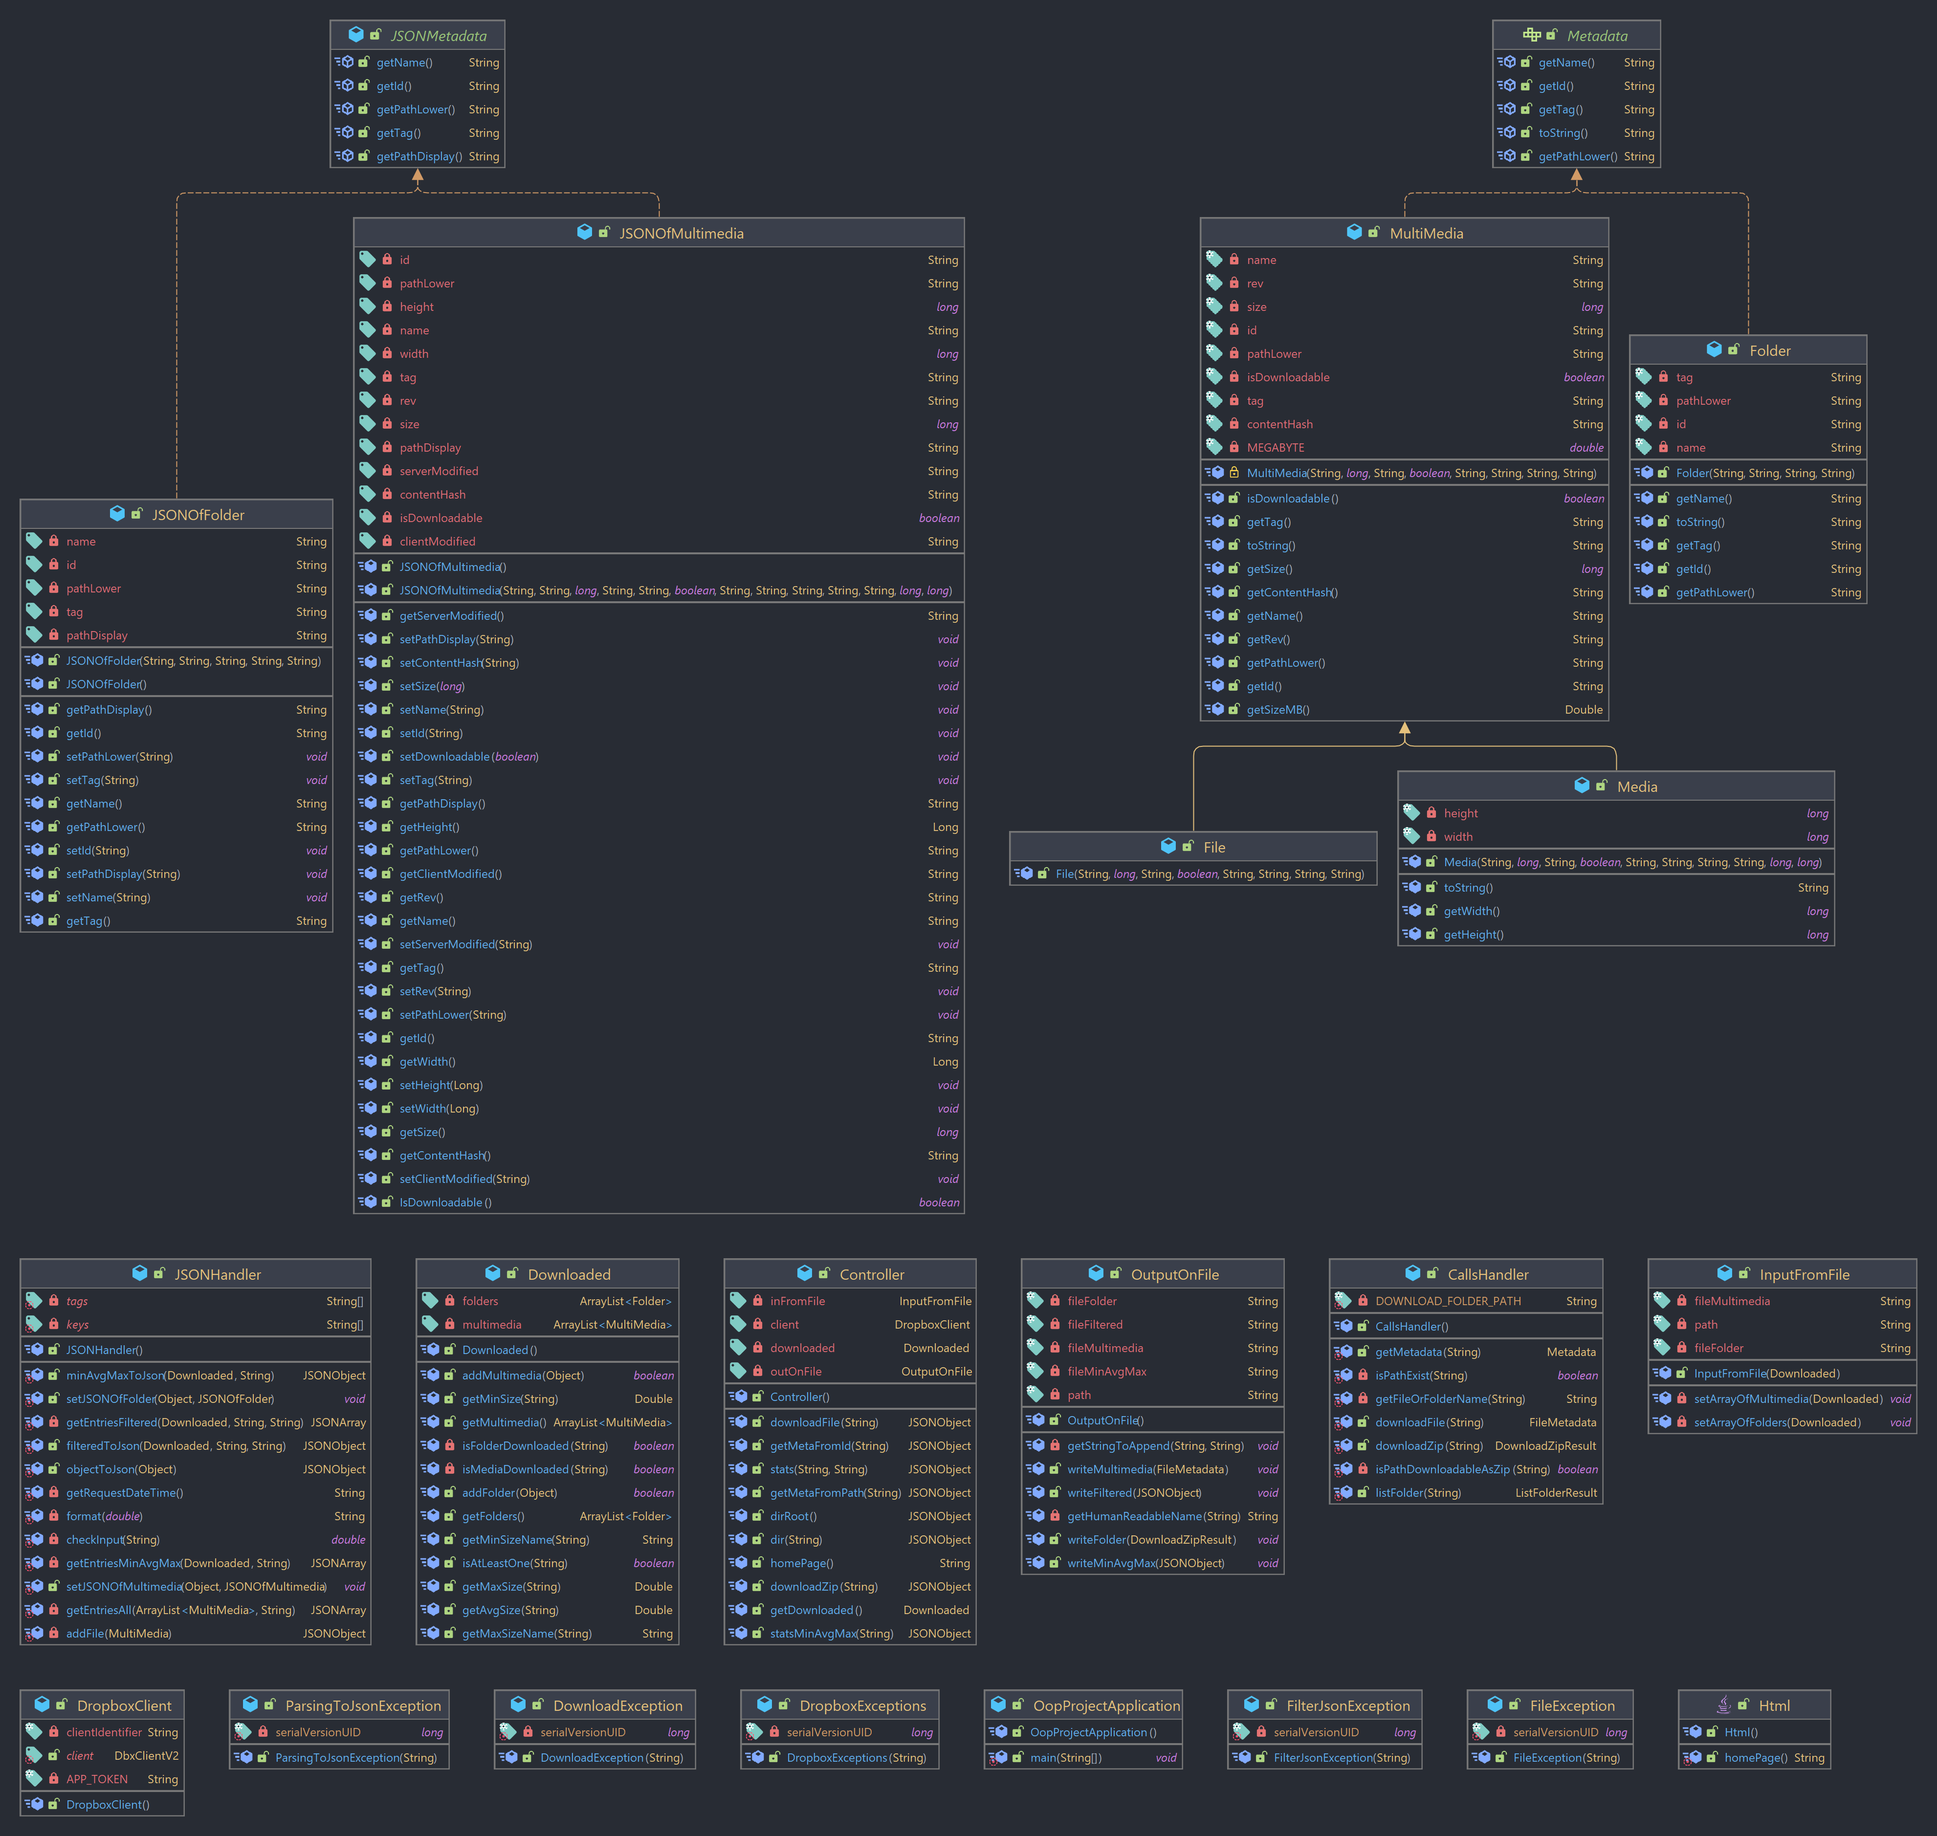
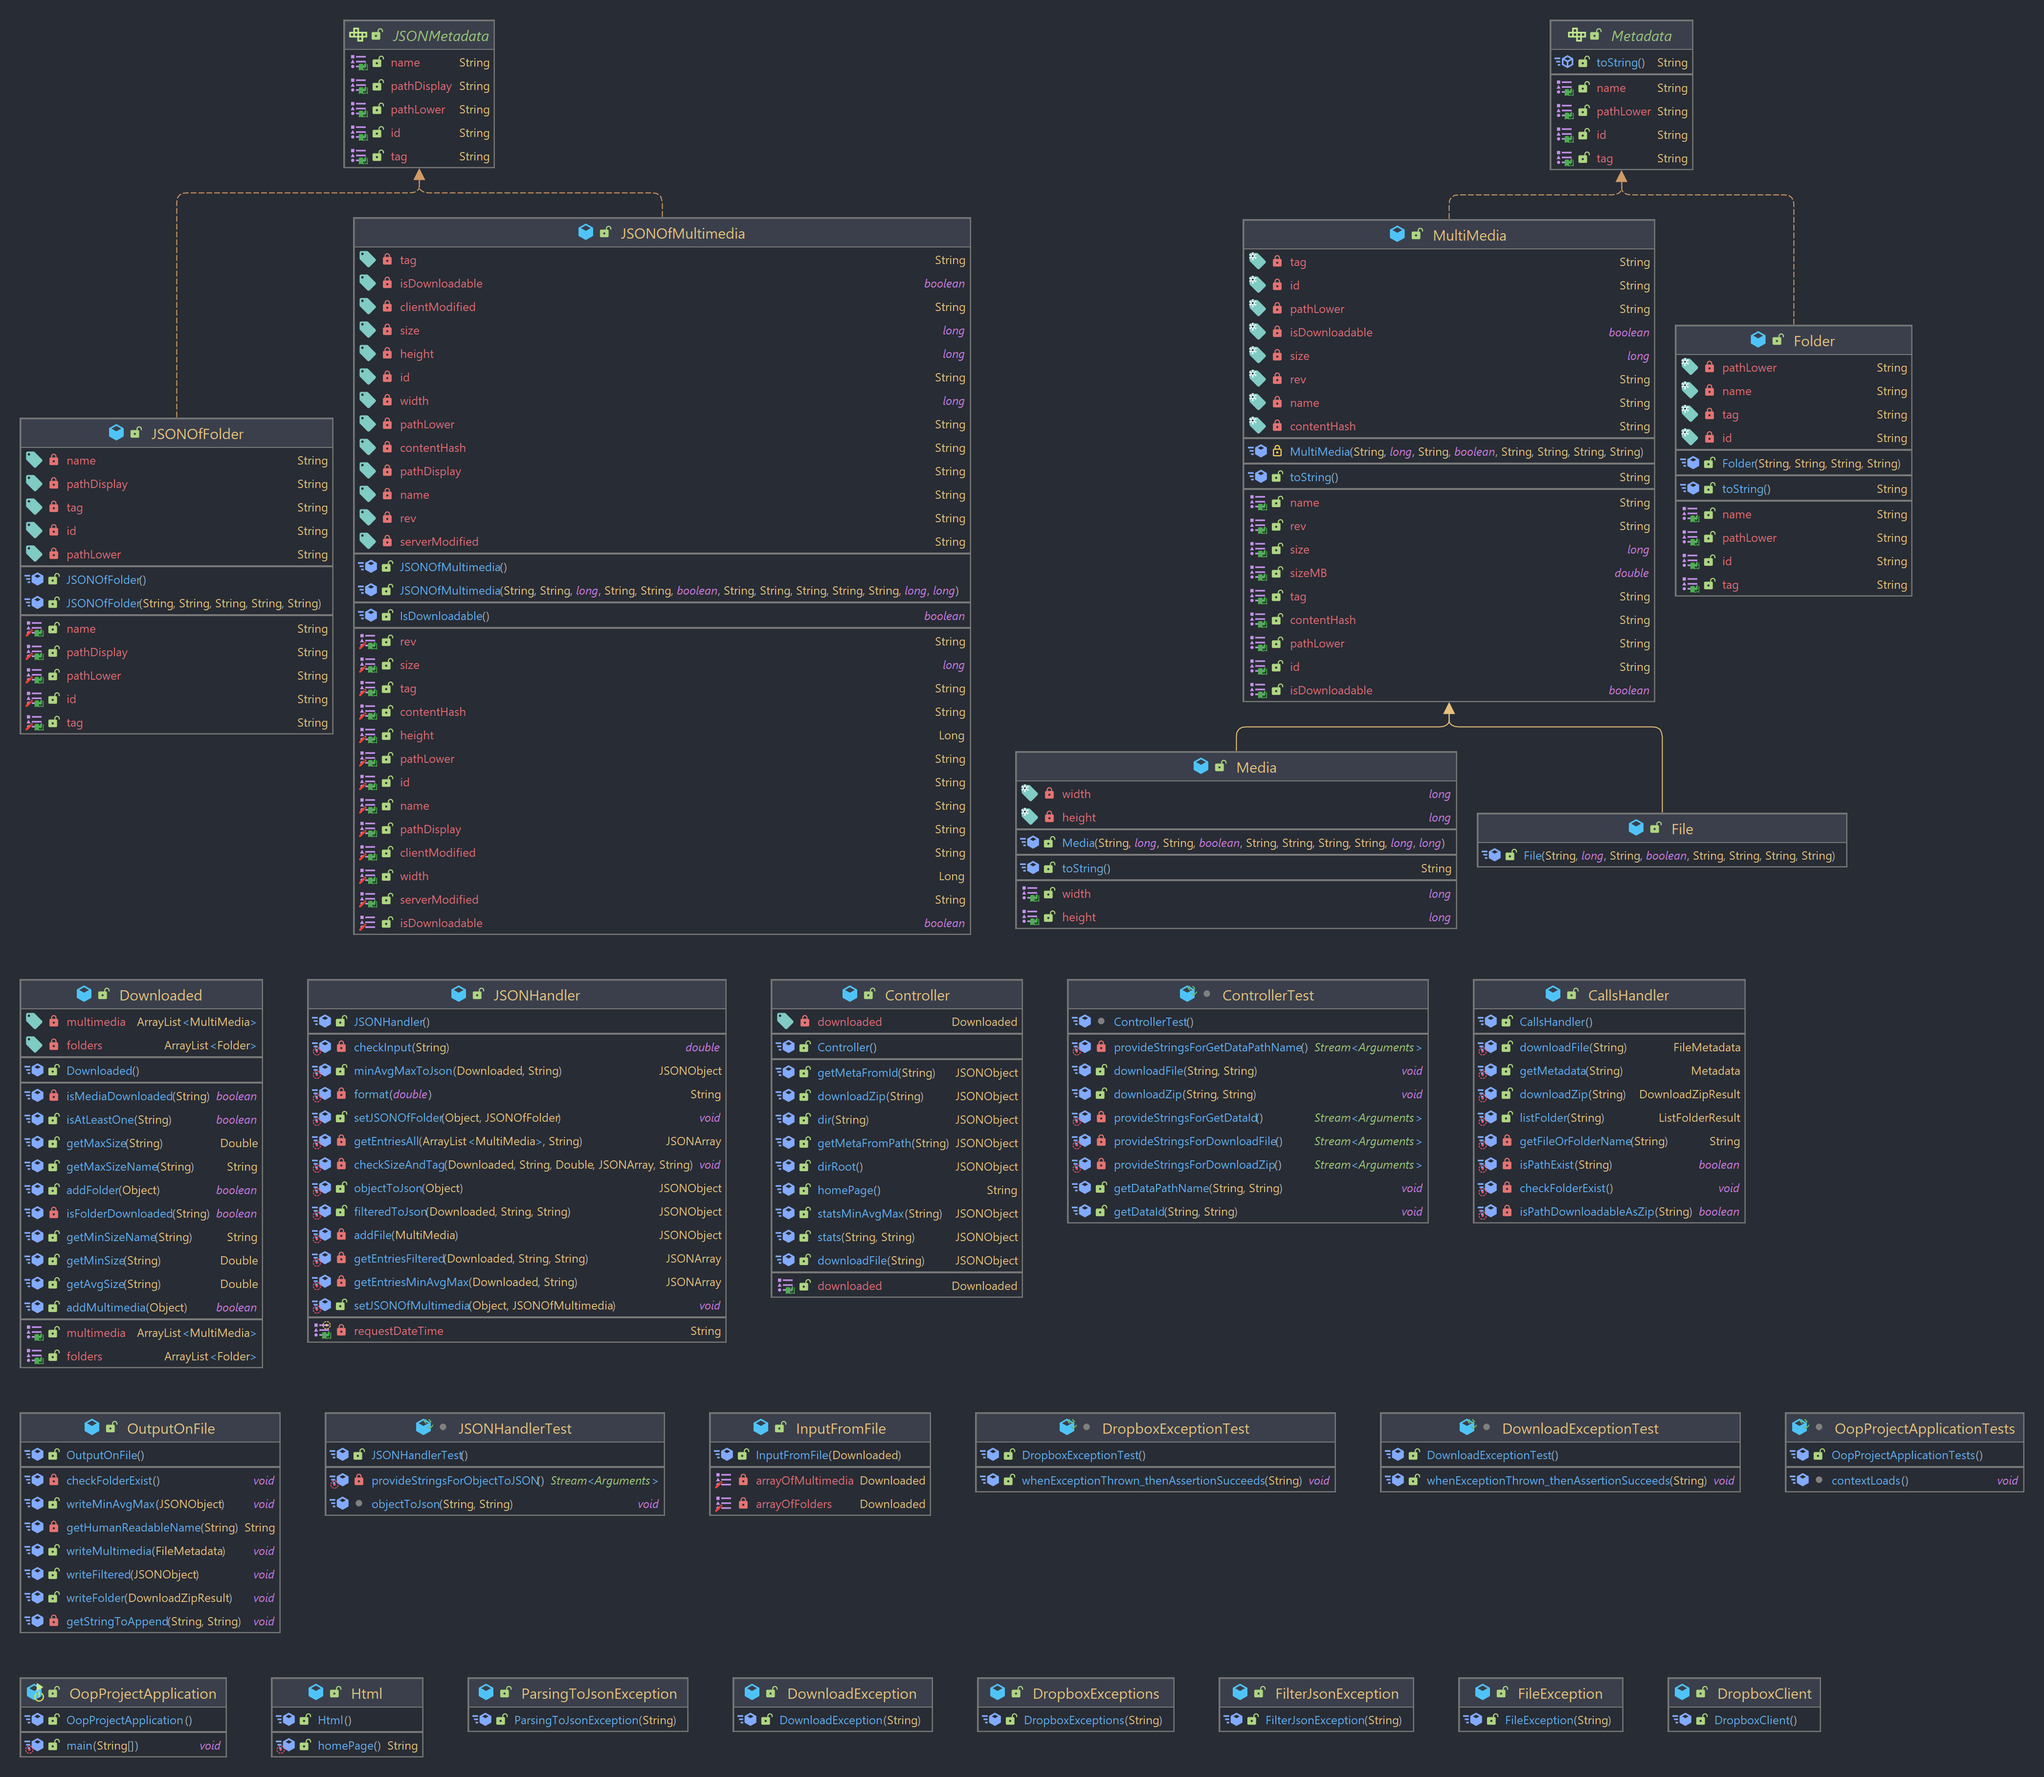
Correzione errori documentazione
-Aggiornato readme, spero alla versione finale
-Correzione mancato upload della javadoc di InputFromFile
-Aggiornata immagine diagramma

Changed region(s): [[0.0, 0.0, 0.9934, 0.995], [0.6519, 0.6219, 0.683, 0.653]]

diff --git a/src/main/java/it/giuugcola/oop/stream/InputFromFile.java b/src/main/java/it/giuugcola/oop/stream/InputFromFile.java
@@ -9,6 +9,12 @@ import org.json.simple.parser.ParseException;
 
 import java.io.*;
 
+/**
+ * Classe per la lettura su file.
+ *
+ * @author Davide Colabella
+ * @author Matteo Giuliani
+ */
 public class InputFromFile {
 
     /**
@@ -26,7 +32,13 @@ public class InputFromFile {
      */
     private static final String FILE_FOLDER = "folder.txt";
 
-
+    /**
+     * Metodo per leggere dai file txt tutti i file e le cartelle scaricate.
+     *
+     * @param downloaded Oggetto {@link Downloaded} che conterrà tutti i file scaricati
+     * @throws FileException          Se la lettura su file genera errori
+     * @throws ParsingToJsonException Se la creazione del JSON genera errori
+     */
     public InputFromFile(Downloaded downloaded) throws FileException, ParsingToJsonException, DownloadException {
         if (new File(PATH + FILE_MULTIMEDIA).exists())
             setArrayOfMultimedia(downloaded);
@@ -34,6 +46,11 @@ public class InputFromFile {
             setArrayOfFolders(downloaded);
     }
 
+    /**
+     * Metodo ausiliario di {@link #InputFromFile(Downloaded)}, che legge i file multimediali scaricati.
+     *
+     * @param downloaded Oggetto {@link Downloaded} che conterrà tutti i file scaricati
+     */
     private void setArrayOfMultimedia(Downloaded downloaded) throws FileException, ParsingToJsonException, DownloadException {
         JSONParser jParser = new JSONParser();
         StringBuilder content = new StringBuilder();
@@ -57,6 +74,11 @@ public class InputFromFile {
         }
     }
 
+    /**
+     * Metodo ausiliario di {@link #InputFromFile(Downloaded)}, che legge le cartelle scaricate.
+     *
+     * @param downloaded Oggetto {@link Downloaded} che conterrà tutti i file scaricati
+     */
     private void setArrayOfFolders(Downloaded downloaded) throws FileException, ParsingToJsonException, DownloadException {
         JSONParser jParser = new JSONParser();
         StringBuilder content = new StringBuilder();

diff --git a/README.md b/README.md
@@ -19,8 +19,14 @@
 
 <img align="right" src="img/dB/MiniLogoBlu.png" alt="Icona Dropbox" width="88" height="88" >
 
-L'applicazione SpringBoot qui pubblicata ha come scopo principale quello di scaricare file dal proprio account Dropbox,
-mediante l'utilizzo della [Dropbox Api V2](https://www.dropbox.com/developers/documentation/http/overview).
+L'applicazione SpringBoot qui pubblicata permette di scaricare file dal proprio account Dropbox ed effettuare,
+statistiche su di essi, mediante l'utilizzo della [Dropbox Api V2](https://www.dropbox.com/developers/documentation/http/overview).
+
+L'obiettivo principale è quello di scaricare una cartella o un file dal proprio Dropbox ed effettuare
+statistiche in locale sui file scaricati in base alla dimensione e al tipo, con l'implementazione di
+filtri che permettano di visualizzare solo ciò di cui  
+si ha bisogno, specificando dimensione minima o
+massima e tipo di file.
 
 **Funzioni dell'applicazione**:
 
@@ -43,7 +49,7 @@ mediante l'utilizzo della [Dropbox Api V2](https://www.dropbox.com/developers/do
 | ` post ` | [`/getMetaFromPath`](#/getMetaFromPath)       | Restituisce informazioni sul file o la cartella con il loro percorso.             | `path`          |
 | ` post ` | [`/downloadFile`](#/downloadFile)             | Effettua il download di un file.                                                  | `path`          |
 | ` post ` | [`/downloadZip`](#/downloadZip)               | Effettua il download di una cartella.                                             | `path`          |
-| ` post ` | [`/stats`](#/stats)                           | Restituisce la lista dei file scaricati.                                          | `filter`, `tag` |
+| ` get `  | [`/stats`](#/stats)                           | Restituisce la lista dei file scaricati.                                          | `filter`, `tag` |
 | ` get `  | [`/stats/getMinAvgMax`](#/stats/getMinAvgMax) | Calcola dimensione minima, media e massima per tipo di file scaricato.            | `tag`           |
 
 <a name="rotte-post"></a>
@@ -341,8 +347,8 @@ I parametri sono `filter` e `tag`e possono essere usati assieme o singolarmente.
 | `file`  | File (tutti eccetto foto e video) |
 | `photo` | Foto                              |
 | `video` | Video                             |  
-  
-Nella formulazione del parametro `filter` bisogna seguire delle regole: 
+
+Nella formulazione del parametro `filter` bisogna seguire delle regole:
 * Per tutti i filter eccetto `bt` va specificato un solo valore di comparazione.
 * Il valore deve essere raccolto nelle parentesi tonde, ESEMPIO: `(3.9)`.
 * Il valore nelle parentesi va posto dopo il filter, ESEMPIO: `gt(2.4)`.
@@ -353,21 +359,21 @@ Utilizzando entrambi i parametri la chiamata sarà di questo tipo:
 
 ![Rotta statsFilter](img/get/statsFil.png)
 
-Dove otterremo la lista dei file che soddisfano i parametri specificati.  
+In questo modo otterremo la lista dei file che soddisfano i parametri specificati.
 
-JSON con parametri `filter=gt(1.2)` e `tag=file`:  
+JSON con parametri `filter=gt(1.2)` e `tag=file`:
 
 ```json
 {
-    "request_time": "16/12/2021 22:55:44",
-    "file_tag": {
-        "file": [
-            {
-                "size": "2,07MB",
-                "name": "sample_of_text.txt"
-            }
-        ]
-    }
+  "request_time": "16/12/2021 22:55:44",
+  "file_tag": {
+    "file": [
+      {
+        "size": "2,07MB",
+        "name": "sample_of_text.txt"
+      }
+    ]
+  }
 }
 ```
 
@@ -379,65 +385,66 @@ JSON con parametri `filter=gt(1.2)` e `tag=file`:
 
 ![Rotta minAvgMax](img/get/minAvgMax.png)
 
-La chiamata `/stats/getMinAvgMax` restituisce una lista suddivisa per tipo di file, del file più 
-piccolo, della dimensione media del tipo e del file più grande.  
+La chiamata `/stats/getMinAvgMax` effettua statistiche sulle dimensioni minima, 
+media e massima dei file scaricati per tipo di file; restituendo una lista suddivisa per tipo di file, 
+contenente il più piccolo, il più grande e la dimensione media. 
 
-In risposta otteniamo un JSON di questo tipo:  
+In risposta otteniamo un JSON di questo tipo:
 
 ```json
 {
-    "request_time": "16/12/2021 22:59:36",
-    "file_tag": {
-        "file": [
-            {
-                "min": {
-                    "size": "2,07MB",
-                    "name": "sample_of_text.txt"
-                },
-                "avg": {
-                    "size": "2,07MB"
-                },
-                "max": {
-                    "size": "2,07MB",
-                    "name": "sample_of_text.txt"
-                }
-            }
-        ],
-        "photo": [
-            {
-                "min": {
-                    "size": "0,03MB",
-                    "name": "Parrots.jpg"
-                },
-                "avg": {
-                    "size": "0,03MB"
-                },
-                "max": {
-                    "size": "0,03MB",
-                    "name": "Parrots.jpg"
-                }
-            }
-        ],
-        "video": [
-            {
-                "min": {
-                    "size": "1,01MB",
-                    "name": "SampleVideo_1280x720_1mb.mp4"
-                },
-                "avg": {
-                    "size": "1,01MB"
-                },
-                "max": {
-                    "size": "1,01MB",
-                    "name": "SampleVideo_1280x720_1mb.mp4"
-                }
-            }
-        ]
-    }
+  "request_time": "16/12/2021 22:59:36",
+  "file_tag": {
+    "file": [
+      {
+        "min": {
+          "size": "2,07MB",
+          "name": "sample_of_text.txt"
+        },
+        "avg": {
+          "size": "2,07MB"
+        },
+        "max": {
+          "size": "2,07MB",
+          "name": "sample_of_text.txt"
+        }
+      }
+    ],
+    "photo": [
+      {
+        "min": {
+          "size": "0,03MB",
+          "name": "Parrots.jpg"
+        },
+        "avg": {
+          "size": "0,03MB"
+        },
+        "max": {
+          "size": "0,03MB",
+          "name": "Parrots.jpg"
+        }
+      }
+    ],
+    "video": [
+      {
+        "min": {
+          "size": "1,01MB",
+          "name": "SampleVideo_1280x720_1mb.mp4"
+        },
+        "avg": {
+          "size": "1,01MB"
+        },
+        "max": {
+          "size": "1,01MB",
+          "name": "SampleVideo_1280x720_1mb.mp4"
+        }
+      }
+    ]
+  }
 }
 ```  
-  
-Nella chiamata possiamo anche specificare il parametro `tag`:  
+
+Nella chiamata possiamo anche specificare il parametro `tag`:
 
 | tag     | Valore                            |
 |---------|-----------------------------------|
@@ -448,30 +455,30 @@ Nella chiamata possiamo anche specificare il parametro `tag`:
 <br>
 Chiamata col parametro `tag=file`:  
 
-![Rotta minAvgMaxParam](img/get/minAvgMaxParam.png)  
+![Rotta minAvgMaxParam](img/get/minAvgMaxParam.png)
 
-Il JSON col parametro specificato sarà di questo tipo:  
-  
+Il JSON col parametro specificato sarà di questo tipo:
+
 ```json
 {
-    "request_time": "16/12/2021 23:13:38",
-    "file_tag": {
-        "file": [
-            {
-                "min": {
-                    "size": "2,07MB",
-                    "name": "sample_of_text.txt"
-                },
-                "avg": {
-                    "size": "2,07MB"
-                },
-                "max": {
-                    "size": "2,07MB",
-                    "name": "sample_of_text.txt"
-                }
-            }
-        ]
-    }
+  "request_time": "16/12/2021 23:13:38",
+  "file_tag": {
+    "file": [
+      {
+        "min": {
+          "size": "2,07MB",
+          "name": "sample_of_text.txt"
+        },
+        "avg": {
+          "size": "2,07MB"
+        },
+        "max": {
+          "size": "2,07MB",
+          "name": "sample_of_text.txt"
+        }
+      }
+    ]
+  }
 }
 ```
 
@@ -479,9 +486,9 @@ Il JSON col parametro specificato sarà di questo tipo:
 
 ## Schema Classi :file_folder:
 
-La struttura del progetto è rappresentata in quest'immagine:  
+La struttura del progetto è rappresentata in quest'immagine:
 
-![Schema](img/oop.png) 
+![Schema](img/oop.png)
 
 
 <a name="tecnologie-utilizzate"></a>
